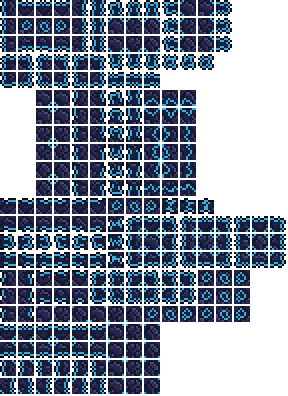
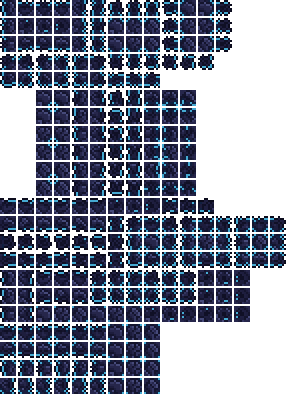
Shards and moss fixes

diff --git a/Content/Tiles/LuminousCaverns/LumenShards.cs b/Content/Tiles/LuminousCaverns/LumenShards.cs
@@ -52,9 +52,92 @@ namespace Primordium.Content.Tiles.LuminousCaverns
 		}
 
 		public override void ModifyLight(int i, int j, ref float r, ref float g, ref float b) {
-			r = 0.2f;
-			g = 0.62f;
-			b = 0.78f;
+			// The half that touches the stone stays dark. Only the tip glows, and only a little.
+			Tile above = Framing.GetTileSafely(i, j - 1);
+			Tile below = Framing.GetTileSafely(i, j + 1);
+			bool anchored = above.HasTile && IsHost(above.TileType) || below.HasTile && IsHost(below.TileType);
+			if (anchored) {
+				return;
+			}
+
+			r = 0.05f;
+			g = 0.14f;
+			b = 0.18f;
+		}
+
+		// Hallow crystals sprout from pearlstone a few at a time. These do the same on lumenstone and luminous moss.
+		public static void TryGrow(int i, int j) {
+			if (j <= Main.rockLayer && !Main.remixWorld) {
+				return;
+			}
+
+			if (!WorldGen.genRand.NextBool(5)) {
+				return;
+			}
+
+			int direction = WorldGen.genRand.Next(4);
+			int x = i + (direction == 0 ? -1 : direction == 1 ? 1 : 0);
+			int y = j + (direction == 2 ? -1 : direction == 3 ? 1 : 0);
+			if (!WorldGen.InWorld(x, y, 10) || Main.tile[x, y].HasTile || Main.tile[x, y].LiquidAmount > 0) {
+				return;
+			}
+
+			if (CountNearby(i, j) >= 2) {
+				return;
+			}
+
+			if (direction == 2 && IsOpen(x, y - 1)) {
+				Place(x, y, ceiling: false);
+			}
+			else if (direction == 3 && IsOpen(x, y + 1)) {
+				Place(x, y, ceiling: true);
+			}
+		}
+
+		private static void Place(int x, int y, bool ceiling) {
+			int type = ModContent.TileType<LumenShards>();
+			if (ceiling) {
+				WorldGen.PlaceObject(x, y, type, mute: true, style: 0, alternate: CeilingAlternate);
+			}
+			else {
+				WorldGen.PlaceObject(x, y, type, mute: true);
+			}
+
+			if (Main.netMode == NetmodeID.Server) {
+				NetMessage.SendTileSquare(-1, x - 1, y - 1, 3, 3);
+			}
+		}
+
+		private static int CountNearby(int i, int j) {
+			int type = ModContent.TileType<LumenShards>();
+			int count = 0;
+			for (int x = i - 6; x <= i + 6; x++) {
+				for (int y = j - 6; y <= j + 6; y++) {
+					if (!WorldGen.InWorld(x, y, 1)) {
+						continue;
+					}
+
+					Tile tile = Main.tile[x, y];
+					if (tile.HasTile && tile.TileType == type && tile.TileFrameY == 0) {
+						count++;
+					}
+				}
+			}
+
+			return count;
+		}
+
+		private static bool IsOpen(int x, int y) {
+			if (!WorldGen.InWorld(x, y, 1)) {
+				return false;
+			}
+
+			Tile tile = Main.tile[x, y];
+			return !tile.HasTile && tile.LiquidAmount == 0;
+		}
+
+		private static bool IsHost(int type) {
+			return type == ModContent.TileType<Lumenstone>() || type == ModContent.TileType<LuminousMoss>();
 		}
 	}
 }

diff --git a/Content/Tiles/LuminousCaverns/LuminousMoss.cs b/Content/Tiles/LuminousCaverns/LuminousMoss.cs
@@ -16,8 +16,8 @@ namespace Primordium.Content.Tiles.LuminousCaverns
 			Main.tileSolid[Type] = true;
 			Main.tileBlockLight[Type] = true;
 			Main.tileLighted[Type] = true;
-			// Same framing path as green moss. The host block is lumenstone, so the glow wraps every open edge
-			// and blends into lumenstone where another block covers it. tileMoss would force the host to be stone.
+			// Grass selects the edge frame. tileMoss would force the host to be stone, so the host stays lumenstone.
+			TileID.Sets.Grass[Type] = true;
 			TileID.Sets.NeedsGrassFraming[Type] = true;
 			TileID.Sets.NeedsGrassFramingDirt[Type] = ModContent.TileType<Lumenstone>();
 
@@ -29,6 +29,25 @@ namespace Primordium.Content.Tiles.LuminousCaverns
 			DustType = DustID.BlueMoss;
 			HitSound = SoundID.Tink;
 			AddMapEntry(new Color(40, 150, 150), CreateMapEntryName());
+		}
+
+		public override void ModifyFrameMerge(int i, int j, ref int up, ref int down, ref int left, ref int right, ref int upLeft, ref int upRight, ref int downLeft, ref int downRight) {
+			// A side only grows moss when it faces air. Any solid block covers that side, the same as vanilla moss.
+			Cover(i, j - 1, ref up);
+			Cover(i, j + 1, ref down);
+			Cover(i - 1, j, ref left);
+			Cover(i + 1, j, ref right);
+			Cover(i - 1, j - 1, ref upLeft);
+			Cover(i + 1, j - 1, ref upRight);
+			Cover(i - 1, j + 1, ref downLeft);
+			Cover(i + 1, j + 1, ref downRight);
+		}
+
+		private static void Cover(int x, int y, ref int merge) {
+			Tile tile = Framing.GetTileSafely(x, y);
+			if (tile.HasTile && Main.tileSolid[tile.TileType] && !Main.tileSolidTop[tile.TileType]) {
+				merge = ModContent.TileType<LuminousMoss>();
+			}
 		}
 
 		public override void ModifyLight(int i, int j, ref float r, ref float g, ref float b) {
@@ -46,6 +65,8 @@ namespace Primordium.Content.Tiles.LuminousCaverns
 		}
 
 		public override void RandomUpdate(int i, int j) {
+			LumenShards.TryGrow(i, j);
+
 			// Green moss scans the 3x3 around itself and grows onto the stone beside it. SpreadGrass has to be
 			// aimed at that stone: calling it on the moss tile itself does nothing.
 			int lumenstone = ModContent.TileType<Lumenstone>();

diff --git a/Common/Systems/LuminousCavernsWorldGen.cs b/Common/Systems/LuminousCavernsWorldGen.cs
@@ -73,6 +73,19 @@ namespace Primordium.Common.Systems
 			}
 		}
 
+		public override void OnWorldLoad() {
+			// Frames are saved with the world. Reframe moss so a side against a block drops its moss.
+			int moss = ModContent.TileType<LuminousMoss>();
+			for (int x = 0; x < Main.maxTilesX; x++) {
+				for (int y = 0; y < Main.maxTilesY; y++) {
+					Tile tile = Main.tile[x, y];
+					if (tile.HasTile && tile.TileType == moss) {
+						WorldGen.TileFrame(x, y, resetFrame: true, noBreak: true);
+					}
+				}
+			}
+		}
+
 		public override void PostWorldGen() {
 			SavedBounds.Clear();
 			foreach (BiomeArea area in Areas) {

diff --git a/Content/Items/Materials/LumenShard.cs b/Content/Items/Materials/LumenShard.cs
@@ -11,8 +11,8 @@ namespace Primordium.Content.Items.Materials
 		}
 
 		public override void SetDefaults() {
-			Item.width = 14;
-			Item.height = 20;
+			Item.width = 16;
+			Item.height = 32;
 			Item.maxStack = Item.CommonMaxStack;
 			Item.value = Item.sellPrice(copper: 40);
 			Item.rare = ItemRarityID.Blue;

diff --git a/Content/Tiles/LuminousCaverns/Lumenstone.cs b/Content/Tiles/LuminousCaverns/Lumenstone.cs
@@ -26,5 +26,9 @@ namespace Primordium.Content.Tiles.LuminousCaverns
 		public override void NumDust(int i, int j, bool fail, ref int num) {
 			num = fail ? 1 : 3;
 		}
+
+		public override void RandomUpdate(int i, int j) {
+			LumenShards.TryGrow(i, j);
+		}
 	}
 }
